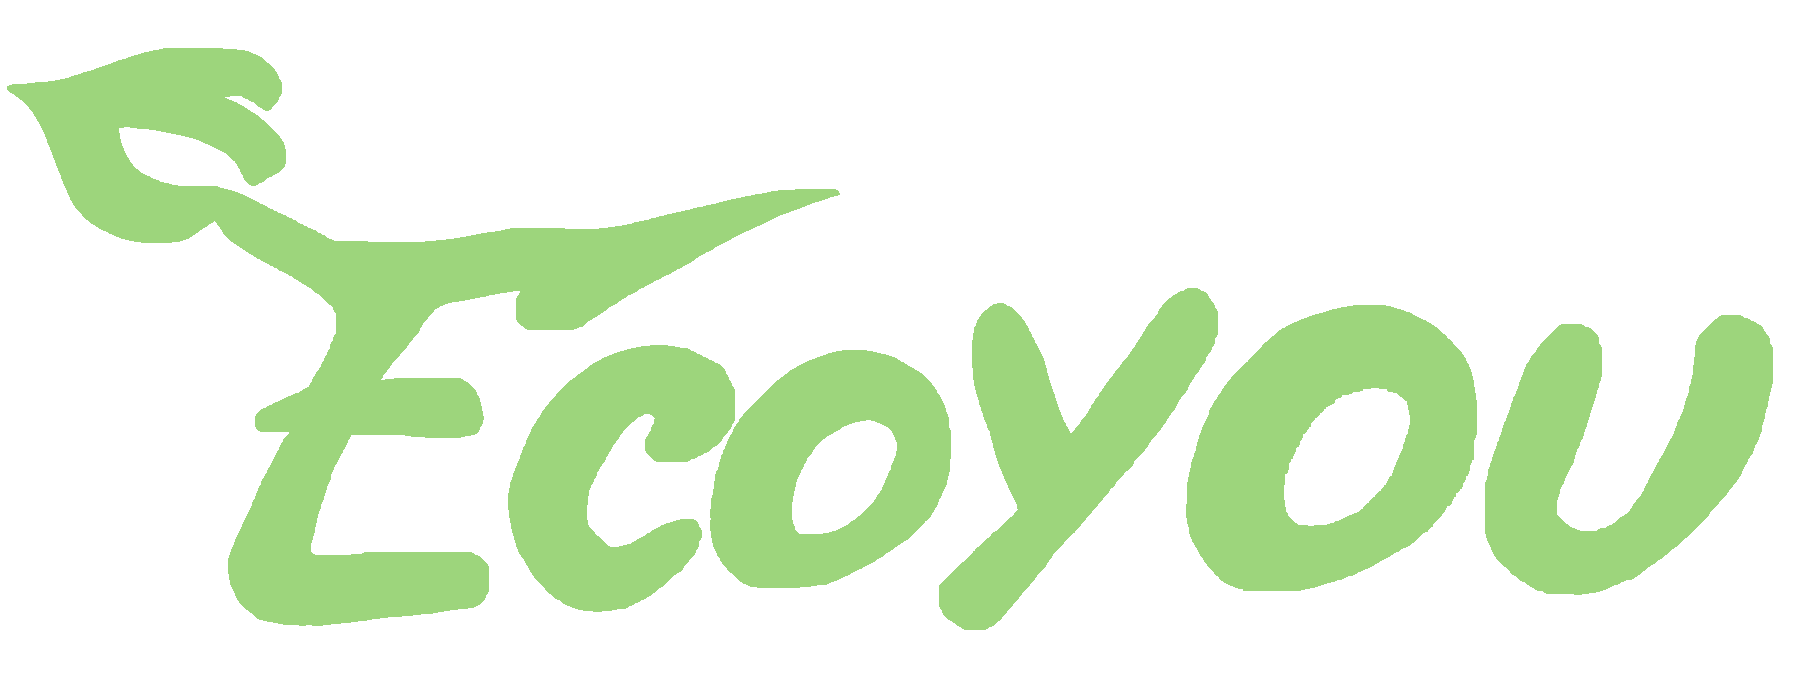
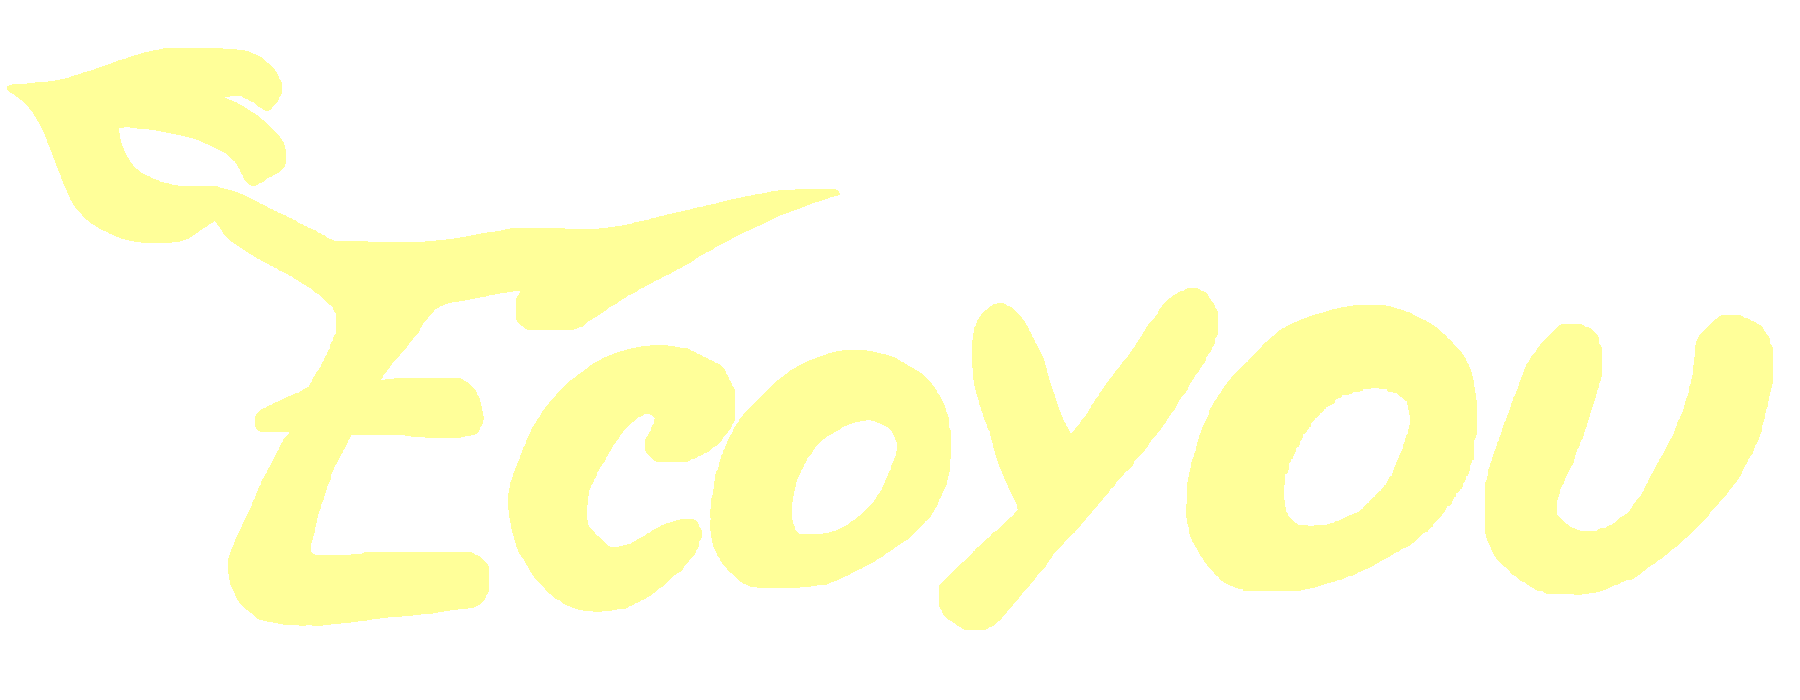
Header new design
> Header still in progress, React props are hard lol
> Croco is our new icon

Changed region(s): [[0.0, 0.06, 0.9956, 0.9]]

diff --git a/frontend/src/components/Header.js b/frontend/src/components/Header.js
@@ -2,12 +2,18 @@ import React from "react";
 
 import "../styles/Header.css";
 
-import ecoyouLogo from "../resources/ecoyou.png";
+import HeaderBase from "../resources/header_base.png";
+import HeaderOrnament from "../resources/header_ornament.png";
+import EcoyouLogo from "../resources/ecoyou.png";
+import HeaderDiscoverIcon from "../resources/header_discover.png";
+import HeaderRedeemIcon from "../resources/header_redeem.png";
+import HeaderChallengesIcon from "../resources/header_challenges.png";
+import HeaderMeIcon from "../resources/header_me.png";
 
-import HeaderDiscoverIcon from "../resources/header-discover.png";
-import HeaderRedeemIcon from "../resources/header-redeem.png";
-import HeaderChallengesIcon from "../resources/header-challenges.png";
-import HeaderMeIcon from "../resources/header-me.png";
+import HeaderDiscoverSelected from "../resources/header_discover_selected.png";
+import HeaderRedeemSelected from "../resources/header_redeem_selected.png";
+import HeaderChallengesSelected from "../resources/header_challenges_selected.png";
+import HeaderMeSelected from "../resources/header_me_selected.png";
 
 import { 
     BrowserRouter, NavLink, Route, Switch, useLocation
@@ -24,31 +30,49 @@ function Header()
 
     React.useEffect(() =>
     {
-        
+        document.title = "Ecoyou";
     }, [location]);
 
     return (
         <header>
-            <NavLink to="/discover" className="header-item" activeClassName="active">
-                <img src={HeaderDiscoverIcon} className="tab-icon" />
-                Discover
-            </NavLink>
-            <NavLink to="/redeem" className="header-item" activeClassName="active">
-                <img src={HeaderRedeemIcon} className="tab-icon" />
-                Redeem
-            </NavLink>
-            <div className="logo-container"> 
-                <img src={ecoyouLogo} className="header-logo" />
-                <span>The change starts with you</span>
+            <div className = "header-base" style={{ backgroundImage: `url(${HeaderBase})` }}>
+                <div className = "header-item">
+                    <NavLink to="/discover" className="header-item" activeClassName="active">
+                        <img src={HeaderDiscoverIcon} />
+                        Discover
+                    </NavLink>
+                </div>
+
+                <div className = "header-item">
+                    <NavLink to="/challenges" className="header-item" activeClassName="active">
+                        <img src={HeaderChallengesIcon} />
+                        Challenges
+                    </NavLink>
+                </div>
+
+                <div className = "header-item">
+                    <NavLink to="/about" className="header-item" activeClassName="active">
+                        <img src={EcoyouLogo} />
+                        The change starts with you
+                    </NavLink>
+                </div>
+
+                <div className = "header-item">
+                    <NavLink to="/redeem" className="header-item" activeClassName="active">
+                        <img src={HeaderRedeemIcon} />
+                        Redeem
+                    </NavLink>
+                </div>
+
+                <div className = "header-item">
+                    <NavLink to="/me" className="header-item" activeClassName="active">
+                        <img src={HeaderMeIcon} />
+                        Me
+                    </NavLink>
+                </div>
             </div>
-            <NavLink to="/challenges" className="header-item" activeClassName="active">
-                <img src={HeaderChallengesIcon} className="tab-icon" />
-                My challenges
-            </NavLink>
-            <NavLink to="/me" className="header-item" activeClassName="active">
-                <img src={HeaderMeIcon} className="tab-icon" />
-                Me
-            </NavLink>
+
+            <div className="header-ornament" style={{ backgroundImage: `url(${HeaderOrnament})` }}></div>
         </header>
     );
 }

diff --git a/frontend/src/styles/Header.css b/frontend/src/styles/Header.css
@@ -1,61 +1,49 @@
-header
-{
-  display: flex;
+header{
   width: 100%;
-  height: 150px;
-  background-color: #563b1d;
-  align-items: center;
+  display: flex;
+  flex-direction: column;
+}
+
+.header-base{
+  display: flex;
+  height: 5em;
+  /* background-color: #563b1d; */
+  background-position-y: bottom;
+  background-size: cover;
+  background-repeat: repeat-x;
+  /* transform: translateY(10%); */
+  padding-top: 1%;
+  align-items: flex-start;
   justify-content: space-around;
 }
 
-header .header-item
+.header-item
 {
-  color: white;
+  color: #ffff99;
   transition: all 0.3s;
   text-decoration: none;
-  padding-bottom: 5px;
-  border-bottom: solid 0px transparent;
-  border-bottom-left-radius: 4px;
-  border-bottom-right-radius: 4px;
-
-  font-size: 1.5rem;
+  font-size: medium;
   font-family: 'Concert One', cursive;
-
-  text-align: center;
-
   display: flex;
   flex-direction: column;
+  align-items: center;
 }
 
-header .header-item.active
-{
-  border-bottom: solid 5px #aebf9b;
+header img{
+  height: 20%;
+  width: 20%;
 }
 
-header .tab-icon
-{
-  width: 80px;
-  position: relative;
-  left: 50%;
-  transform: translateX(-50%);
-  height: auto;
+.header-item:hover{
+  color: white;
 }
 
-header .logo-container
+.header-item.active
 {
-  display: flex;
-  flex-direction: column;
+  color: #73731d;
 }
 
-header .logo-container .header-logo
-{
-  max-width: 200px;
-}
-
-header .logo-container span
-{
-  color: #9dd57c;
-  font-weight: 400;
-  font-family: 'Concert One', cursive;
-  text-align: center;
+.header-ornament{
+  height: 2.5em;
+  background-size: cover;
 }
